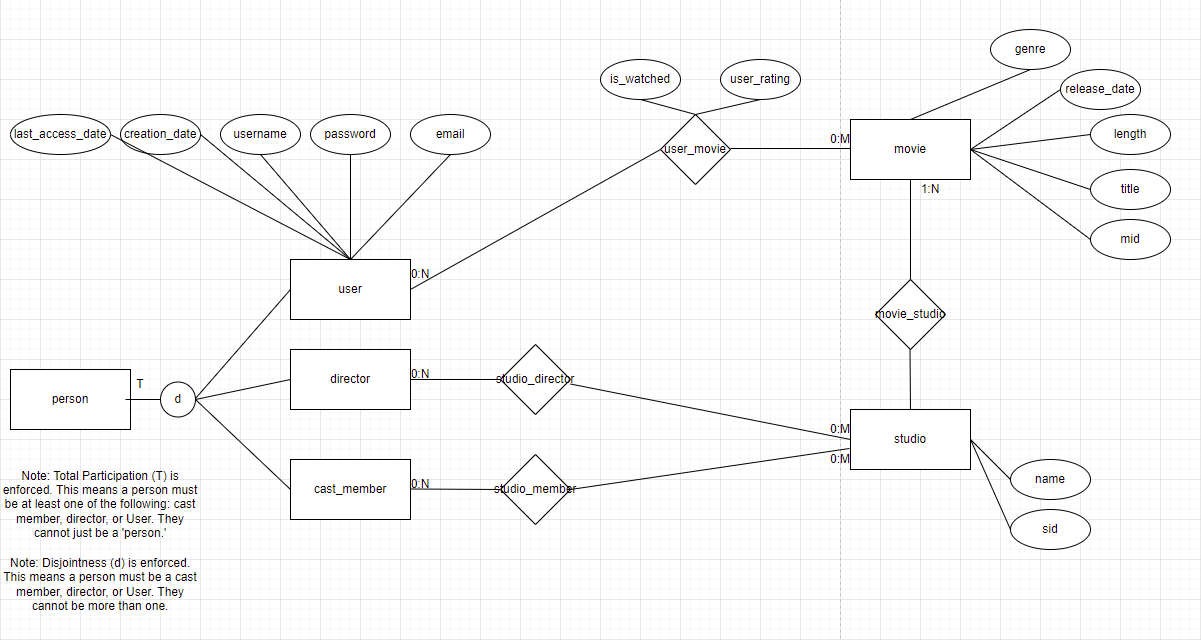
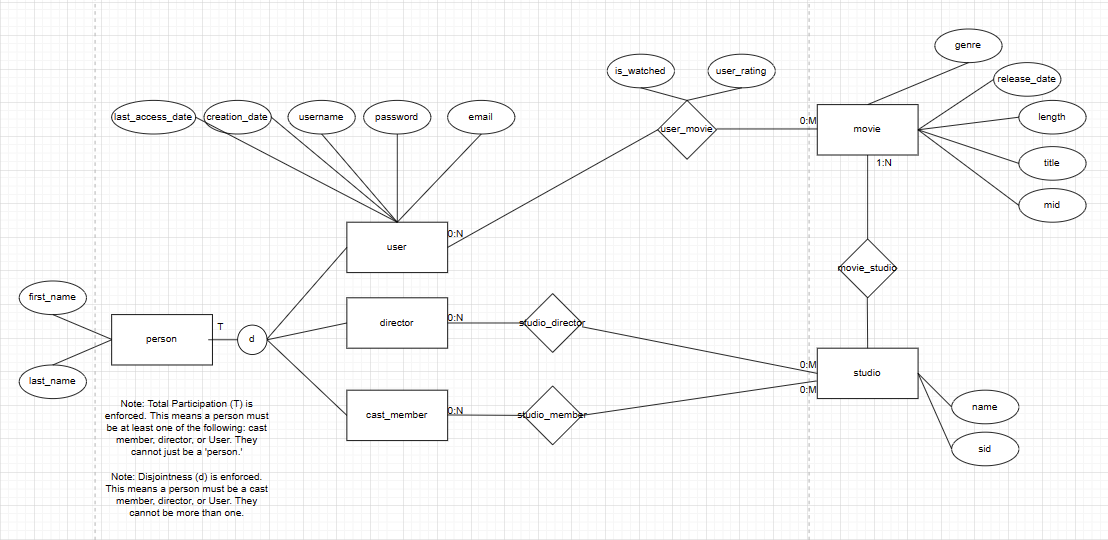
Model updates.

diff --git a/springboot-backend/src/main/java/com/User/UserModel.java b/springboot-backend/src/main/java/com/User/UserModel.java
@@ -1,5 +1,7 @@
 package com.User;
 
+import com.sun.istack.NotNull;
+
 import javax.persistence.*;
 
 import java.util.Date;
@@ -18,7 +20,9 @@ public class UserModel {
     }
 
     //parameterized constructor
-    public UserModel(String username, String password, String email, Date creationDate, Date lastAccessDate) {
+    public UserModel(String username, String firstName, String lastName, String password, String email, Date creationDate, Date lastAccessDate) {
+        this.firstName = firstName;
+        this.lastName = lastName;
         this.username = username;
         this.password = password;
         this.email = email;
@@ -30,16 +34,27 @@ public class UserModel {
     @Column(name = "username")
     private String username;
 
+    @NotNull
+    @Column(name = "first_name")
+    private String firstName;
+
+    @NotNull
+    @Column(name = "last_name")
+    private String lastName;
+
+    @NotNull
     @Column(name = "password")
     private String password;
 
     @Column(name = "email")
     private String email;
 
+    @NotNull
     @Temporal(TemporalType.DATE) //json format date
     @Column(name = "creation_date")
     private Date creationDate;
 
+    @NotNull
     @Temporal(TemporalType.DATE) //json format date
     @Column(name = "last_access_date")
     private Date lastAccessDate;
@@ -54,6 +69,22 @@ public class UserModel {
 
     public void setUsername(String username) {
         this.username = username;
+    }
+
+    public String getFirstName() {
+        return firstName;
+    }
+
+    public void setFirstName(String firstName) {
+        this.firstName = firstName;
+    }
+
+    public String getLastName() {
+        return lastName;
+    }
+
+    public void setLastName(String lastName) {
+        this.lastName = lastName;
     }
 
     public String getPassword() {

diff --git a/springboot-backend/src/test/java/com/User/UserControllerUnitTest.java b/springboot-backend/src/test/java/com/User/UserControllerUnitTest.java
@@ -47,7 +47,9 @@ class UserControllerUnitTest {
     void itShouldCreateAUser() {
         //given
         UserModel userModel = new UserModel(
-                "Test",
+                "TestUserName",
+                "TestFirstName",
+                "TestLastName",
                 "TestPassword",
                 "Test@gmail.com",
                 new Date(),
@@ -69,7 +71,9 @@ class UserControllerUnitTest {
     void itShouldGetAUserById() {
         //given
         UserModel userModel = new UserModel(
-                "Test",
+                "TestUserName",
+                "TestFirstName",
+                "TestLastName",
                 "TestPassword",
                 "Test@gmail.com",
                 new Date(),
@@ -93,7 +97,9 @@ class UserControllerUnitTest {
     void itShouldUpdateAUser() {
         //given
         UserModel userModel = new UserModel(
-                "Test",
+                "TestUserName",
+                "TestFirstName",
+                "TestLastName",
                 "TestPassword",
                 "Test@gmail.com",
                 new Date(),
@@ -102,6 +108,8 @@ class UserControllerUnitTest {
 
         UserModel newUserModel = new UserModel(
                 "newUsername",
+                "newFirstName",
+                "newLastName",
                 "newPassword",
                 "newEmail@gmail.com",
                 new Date(),
@@ -129,7 +137,9 @@ class UserControllerUnitTest {
     void itShouldDeleteAUser() {
         //given
         UserModel userModel = new UserModel(
-                "Test",
+                "TestUserName",
+                "TestFirstName",
+                "TestLastName",
                 "TestPassword",
                 "Test@gmail.com",
                 new Date(),

diff --git a/springboot-backend/src/test/java/com/User/UserServiceUnitTest.java b/springboot-backend/src/test/java/com/User/UserServiceUnitTest.java
@@ -47,7 +47,9 @@ class UserServiceUnitTest {
     void itShouldCreateAUser() {
         //given
         UserModel userModel = new UserModel(
-                "Test",
+                "TestUserName",
+                "TestFirstName",
+                "TestLastName",
                 "TestPassword",
                 "Test@gmail.com",
                 new Date(),
@@ -69,7 +71,9 @@ class UserServiceUnitTest {
     void itShouldGetAUserById() {
         //given
         UserModel userModel = new UserModel(
-                "Test",
+                "TestUserName",
+                "TestFirstName",
+                "TestLastName",
                 "TestPassword",
                 "Test@gmail.com",
                 new Date(),
@@ -112,15 +116,18 @@ class UserServiceUnitTest {
     void itShouldUpdateAUser() {
         //given
         UserModel userModel = new UserModel(
-                "Test",
+                "TestUserName",
+                "TestFirstName",
+                "TestLastName",
                 "TestPassword",
                 "Test@gmail.com",
                 new Date(),
                 new Date()
         );
-
         UserModel newUserModel = new UserModel(
                 "newUsername",
+                "newFirstName",
+                "newLastName",
                 "newPassword",
                 "newEmail@gmail.com",
                 new Date(),
@@ -169,7 +176,9 @@ class UserServiceUnitTest {
     void itShouldDeleteAUser() {
         //given
         UserModel userModel = new UserModel(
-                "Test",
+                "TestUserName",
+                "TestFirstName",
+                "TestLastName",
                 "TestPassword",
                 "Test@gmail.com",
                 new Date(),
